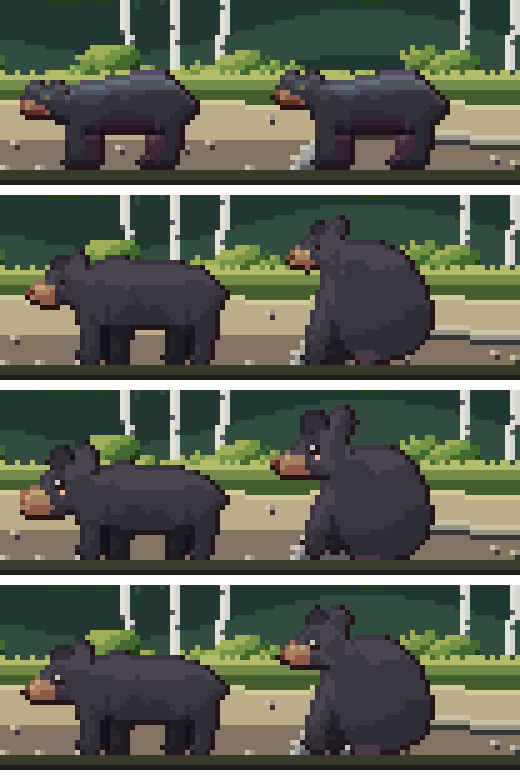
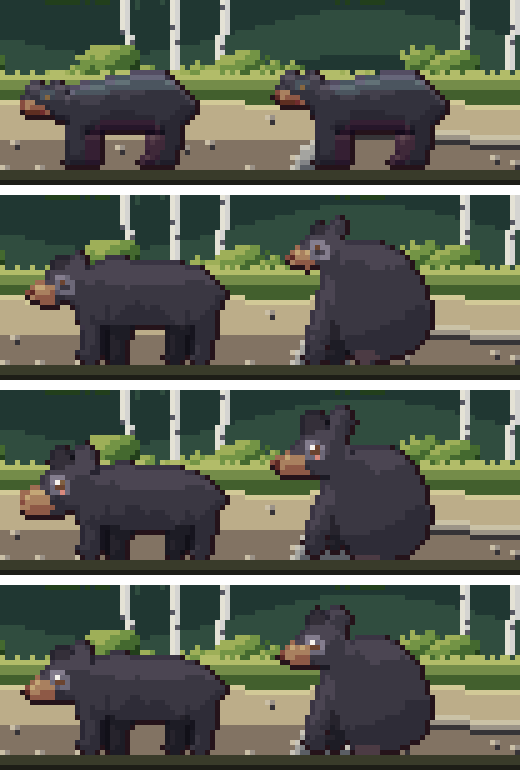
Study 8: direction C, every model corrected, and a buck
Olive's and the bear's eyes read against their black coats, the drinking
deer keeps her ears, the fox's ears are black-backed, the hare's ears are
parted; a white-tailed buck with late-summer antlers joins the doe.
Antlers and eye rims are new in tools/characters/anatomy.py.

Claude-Session: https://claude.ai/code/session_01AFuv3xBDCFNHg8cxuFG86Z

diff --git a/docs/studio/review/study8.html b/docs/studio/review/study8.html
@@ -110,11 +110,27 @@ code { font-family: var(--mono); font-size: 0.85em; }
     <p class="lede">You felt Olive, the deer, fox, hare and bear were stiff and blocky (bodies like boxes, legs like sticks) and not cozy enough. All five are redrawn here from scratch, three ways, each standing and in a pose of its own.</p>
   </header>
 
+  <section>
+    <span class="eyebrow">Your pick, corrected</span>
+    <h2>C, with every model checked</h2>
+    <p>You picked C and pointed out that Olive's eyes didn't show and the deer lost her ears when she bent down. Going over every model close up:</p>
+    <ol class="rules">
+      <li><b>Olive:</b> her brown eyes vanished against her black coat. They're a warmer brown now, with a catchlight and a soft grey rim round them, so they read.</li>
+      <li><b>The bear:</b> the same problem with his dark eyes on black fur; now a brown eye with the same soft rim.</li>
+      <li><b>The deer, drinking:</b> her ears folded back along her neck and merged into it. They now stand up and back from the top of her head, the near one showing its pink inside.</li>
+      <li><b>The fox:</b> his ears were all orange and melted into his head; a red fox's ears are black-backed, and now his are.</li>
+      <li><b>The hare, sitting up:</b> both ears merged into one wide block; they're parted now, the far one angled back.</li>
+      <li><b>New: a buck</b> beside the doe: hardened late-summer antlers (two beams sweeping forward, tines rising from them), a heavier neck, a darker coat.</li>
+    </ol>
+    <img src="study8/final.png" alt="The corrected cast in direction C, standing and in their own poses, with the buck" width="2128" height="224" style="width:100%;height:auto;image-rendering:pixelated;border-radius:4px">
+  </section>
+
   <section class="viewer">
     <span class="eyebrow">One animal at a time</span>
     <div class="pick" role="group" aria-label="Animal">
       <button data-a="olive" aria-pressed="true">Olive</button>
-      <button data-a="deer" aria-pressed="false">Deer</button>
+      <button data-a="deer" aria-pressed="false">Doe</button>
+      <button data-a="buck" aria-pressed="false">Buck</button>
       <button data-a="fox" aria-pressed="false">Fox</button>
       <button data-a="hare" aria-pressed="false">Hare</button>
       <button data-a="bear" aria-pressed="false">Bear</button>
@@ -151,8 +167,8 @@ code { font-family: var(--mono); font-size: 0.85em; }
 
   <section>
     <span class="eyebrow">Your call</span>
-    <h2>Pick one, or mix</h2>
-    <p>Tell me A, B or C, or a mix (for example "C, but Olive as B"), and anything about any animal. Then I'll build every animation (walking, idling, and Olive's run, leap, swim and shake) in that design and put them in the game.</p>
+    <h2>Next</h2>
+    <p>Tell me if anything still looks off. Then I'll build every animation (walking and idling for each, the doe and the buck both visiting, and Olive's run, leap, swim and shake) in this design and put them in the game.</p>
   </section>
 </main>
 <script>

diff --git a/tools/studio/study_creatures.py b/tools/studio/study_creatures.py
@@ -19,6 +19,7 @@ study 6, lit as one mass as in study 7), and shown standing on the beach.
 
     python3 tools/studio/study_creatures.py   -> docs/studio/studies/08-creatures/
 """
+import copy
 import sys
 from pathlib import Path
 
@@ -63,11 +64,11 @@ DEER = {
             "base": "stand", "pivot": (7, 30),
             "neck": [(13.5, 21), (12, 23), (9, 28), (6, 32), (9, 34), (12, 29), (16, 23)],
             "head": [(5, 30), (8.5, 30.5), (9.5, 33), (8.5, 35.5), (6.5, 37.5), (5, 38.4), (3.8, 37.6), (3.6, 35), (4, 32)],
-            "ears_far": [("S", [(6.5, 30), (8.5, 27.5), (9.5, 28.6), (8, 30.8)])],
-            "ears": [("O", [(8, 30.5), (11.5, 28.5), (12, 30), (9, 32)])],
+            "ears_far": [("S", [(6.4, 30.4), (6.6, 25.6), (8.2, 25.4), (8.2, 30.2)])],
+            "ears": [("O", [(8.2, 30.6), (9.6, 25.8), (11.4, 25.6), (10.4, 31.2)])],
+            "head_marks": [("W", [(4, 35.4), (6.6, 35.4), (6.4, 36.6), (4, 36.6)]), ("P", [(9.8, 26.8), (10.6, 26.8), (10, 29.6), (9.4, 29.6)])],
             "eye": (6.6, 32.4), "nose": (4.4, 38),
             "marks": [("W", [(19, 26), (25, 25.6), (32, 25.6), (32, 28), (19, 28)])],
-            "head_marks": [("W", [(4, 35.4), (6.6, 35.4), (6.4, 36.6), (4, 36.6)])],
             "legs": [
                 ("far", [(20, 24), (20.5, 30), (20, 34.5), (20.5, 40)], [1.6, 1.1, 1.0, 1.0]),
                 ("far", [(31, 23), (32, 28.5), (30, 33), (30, 40)], [2.4, 1.4, 1.0, 1.0]),
@@ -76,6 +77,30 @@ DEER = {
             ],
         }},
 }
+
+# The buck: a white-tailed buck in late summer, his antlers hardened (two
+# main beams curving forward, tines rising from them), a heavier neck, a
+# slightly darker coat. Drawn from the doe, with a taller frame for the
+# antlers.
+BUCK = copy.deepcopy(DEER)
+BUCK["frame"], BUCK["ground"] = (46, 54), 52
+BUCK["colours"].update({"O": "#9c7454", "S": "#735238", "A": "#e2d4b4", "a": "#9c8a6a"})
+BUCK["poses"]["stand"].update({
+    "neck": [(13.5, 22.5), (11, 17), (9.5, 12.5), (12.8, 10.2), (16.5, 14), (18.5, 19)],
+    # the beam sweeps up and back, then forward over the face; tines rise
+    # from it, spaced so each reads on its own
+    "antlers_far": [("a", [(10.6, 8.4), (12.6, 4.6), (11.4, 1), (7.6, -1), (3.6, -0.6)], [1.2, 1, 1, 1, 1]),
+                    ("a", [(10.2, -0.2), (10.4, -4.2)], [1, 1]), ("a", [(6.4, -1), (6, -4.6)], [1, 1])],
+    "antlers": [("A", [(12.8, 8.4), (16, 4.6), (15.4, 0.6), (12, -1.6), (7.6, -2), (4.6, -0.8)], [1.3, 1.1, 1, 1, 1, 1]),
+                ("A", [(15.6, 2.4), (18.6, -1.2)], [1, 1]), ("A", [(13.4, -1), (14, -5.6)], [1, 1]),
+                ("A", [(9.6, -1.9), (9.6, -6.2)], [1, 1])],
+})
+BUCK["poses"]["drink"].update({
+    "neck": [(13.5, 21), (11.5, 23.5), (8.5, 28.5), (5.5, 32.5), (9.5, 34.5), (12.5, 29.5), (17, 23)],
+    "antlers_far": [("a", [(6.6, 30), (8.4, 26.6), (11.8, 24.6), (15.4, 25.4)], [1.2, 1, 1, 1]), ("a", [(10.4, 25.2), (10, 21.4)], [1, 1])],
+    "antlers": [("A", [(8.8, 30.6), (11.6, 28), (15.4, 26.8), (18.6, 28), (20, 31)], [1.3, 1.1, 1, 1, 1]),
+                ("A", [(12.4, 27.6), (13.4, 23.6)], [1, 1]), ("A", [(16.4, 27), (18.2, 23.4)], [1, 1])],
+})
 
 FOX = {
     "frame": (42, 27), "ground": 25, "near": "K", "far": "S",
@@ -90,7 +115,8 @@ FOX = {
         "eye": (8.8, 8.8), "nose": (2.4, 10.6),
         "marks": [("W", [(9, 11.5), (12, 11.5), (13, 15), (14, 18), (11, 18), (10, 14)]),
                   ("W", [(16, 19), (27, 19), (27, 21), (16, 21)])],
-        "head_marks": [("W", [(3, 11), (9, 11.2), (11, 11.8), (3, 12.2)]), ("P", [(11.8, 4), (12.6, 3.8), (12.6, 6.4), (11.8, 6.4)])],
+        "head_marks": [("W", [(3, 11), (9, 11.2), (11, 11.8), (3, 12.2)]), ("K", [(11.2, 2), (14, 2.4), (13.6, 4.2), (11.4, 4.2)]),
+                       ("P", [(11.9, 4.4), (12.7, 4.2), (12.6, 6.6), (11.9, 6.6)])],
         "behind": [("O", [(31, 14.8), (35, 14), (38.5, 15.6), (39.5, 18.5), (37.5, 20), (33.5, 19.2), (31.5, 17.5)]),
                    ("W", [(37.4, 16), (39.6, 17), (39.4, 19.4), (37.6, 19.4)])],
         "legs": [
@@ -108,7 +134,7 @@ FOX = {
             "ears": [("O", [(7.2, 18.6), (7.6, 14.6), (9.4, 15.6), (9, 18.8)])],
             "eye": (5.4, 20.4), "nose": (1.8, 24),
             "marks": [("W", [(16, 19), (27, 19), (27, 21), (16, 21)]), ("W", [(9, 18), (12, 17.5), (13.5, 18.5), (10, 20)])],
-            "head_marks": [("W", [(2.4, 23.6), (7, 22.6), (8, 23.2), (3, 24.8)])],
+            "head_marks": [("W", [(2.4, 23.6), (7, 22.6), (8, 23.2), (3, 24.8)]), ("K", [(7.2, 14.2), (9.8, 15), (9.4, 16.6), (7.4, 16.4)])],
             "behind": [("O", [(31, 14.8), (34, 12), (37, 9.5), (39.5, 10), (39, 13), (36, 15.5), (32.5, 17.5)]),
                        ("W", [(37.6, 9.4), (39.8, 10), (39.6, 12.4), (37.8, 12)])],
         }},
@@ -139,11 +165,11 @@ HARE = {
             "torso": [(10, 13), (14, 12), (17.5, 14), (19, 18.5), (19, 23.5), (17, 27.5), (13, 28.6), (9.5, 27.5), (8, 23), (8, 17.5)],
             "neck": [(8, 12), (11, 11.5), (12, 15), (9, 16)],
             "head": [(6, 7.5), (10, 7), (12, 9), (11.6, 12.4), (8.6, 13.6), (5, 13.2), (3.6, 11.8), (4, 9)],
-            "ears_far": [("S", [(7.6, 7.8), (7.4, 0.8), (9.2, 0.6), (9.4, 7.6)])],
-            "ears": [("O", [(9.5, 7.6), (10.4, 0.6), (12.4, 0.2), (11.8, 5.6), (10.8, 8)])],
+            "ears_far": [("S", [(7.4, 7.8), (5.4, 1.2), (7, 0.4), (9, 7.4)])],
+            "ears": [("O", [(9.5, 7.6), (11.2, 0.6), (13.2, 0.6), (12, 5.6), (10.8, 8)])],
             "eye": (6.6, 10), "nose": (3.8, 11.4),
             "marks": [("W", [(9, 20), (13, 19), (14, 28.6), (9, 28.6)])],
-            "head_marks": [("P", [(10.6, 1.6), (11.6, 1.4), (11, 5), (10.4, 5)])],
+            "head_marks": [("P", [(11.4, 1.8), (12.4, 1.8), (11.6, 5), (11, 5)])],
             "behind": [("W", [(18.5, 24), (20.8, 24.4), (20.6, 27.4), (18.6, 27.4)])],
             "legs": [
                 ("far", [(11.5, 18.5), (10.6, 21), (10.6, 22.4)], [1.4, 1.1, 1.0]),
@@ -154,8 +180,8 @@ HARE = {
 }
 
 BEAR = {
-    "frame": (46, 31), "ground": 29, "near": "O", "far": "S",
-    "colours": {"O": "#3a3742", "S": "#26232c", "M": "#a9805f", "P": "#5a4a50"},
+    "frame": (46, 31), "ground": 29, "near": "O", "far": "S", "eye_ring": "k",
+    "colours": {"O": "#3a3742", "S": "#26232c", "M": "#a9805f", "P": "#5a4a50", "E": "#6b4430", "k": "#6c6878"},
     "poses": {"stand": {
         "pivot": (9, 14),
         "torso": [(12, 12.5), (17, 10), (24, 10.5), (31, 11), (36, 12), (39, 15), (39, 19), (36, 21.5), (28, 22), (19, 22), (13, 21), (10, 18.5), (10, 15)],
@@ -193,8 +219,9 @@ BEAR = {
 }
 
 OLIVE = {
-    "frame": (42, 32), "ground": 30, "near": "W", "far": "w",
-    "colours": {"O": "#33323d", "W": "#eae2dc", "w": "#b3a697", "H": "#faffff", "R": "#c25f62", "P": "#985252", "E": "#a36443"},
+    "frame": (42, 32), "ground": 30, "near": "W", "far": "w", "eye_ring": "k",
+    "colours": {"O": "#33323d", "W": "#eae2dc", "w": "#b3a697", "H": "#faffff", "R": "#c25f62", "P": "#985252", "E": "#c07a4a",
+                "k": "#6c6878", "C": "#fff4e0"},
     "poses": {"stand": {
         "pivot": (11, 12),
         "torso": [(13, 16), (19, 15), (26, 15.2), (31, 16), (33.5, 18.5), (33, 22), (30, 23.5), (24, 23.6), (18, 23.8), (13.5, 22.5), (11, 19.5), (11.5, 17)],
@@ -239,7 +266,7 @@ OLIVE = {
         }},
 }
 
-ANIMALS = {"olive": OLIVE, "deer": DEER, "fox": FOX, "hare": HARE, "bear": BEAR}
+ANIMALS = {"olive": OLIVE, "deer": DEER, "buck": BUCK, "fox": FOX, "hare": HARE, "bear": BEAR}
 
 
 def render(spec, style, pose="stand"):
@@ -250,7 +277,7 @@ def render(spec, style, pose="stand"):
     return lit(treat(img, fw), fw)
 
 
-POSES = {"olive": ["stand", "sit"], "deer": ["stand", "drink"], "fox": ["stand", "sniff"], "hare": ["stand", "alert"], "bear": ["stand", "sit"]}
+POSES = {"olive": ["stand", "sit"], "deer": ["stand", "drink"], "buck": ["stand", "drink"], "fox": ["stand", "sniff"], "hare": ["stand", "alert"], "bear": ["stand", "sit"]}
 
 
 def sheet(style, scale=4, names=None):
@@ -282,10 +309,11 @@ NOW = {"olive": (0, 2), "deer": (8, 11), "fox": (8, 10), "hare": (10, 14), "bear
 def now_frames(name):
     import json
     m = json.loads((ROOT / "assets" / "art" / "manifest.json").read_text())
+    name = {"buck": "deer"}.get(name, name)
     sh = m["sheets"][name]
     img = Image.open(ROOT / sh["url"]).convert("RGBA")
     fw, fh = sh["frameWidth"], sh["frameHeight"]
-    return [img.crop((i * fw, 0, (i + 1) * fw, fh)) for i in NOW[name]]
+    return [img.crop((i * fw, 0, (i + 1) * fw, fh)) for i in NOW[name]]  # the game has a doe only
 
 
 def card(name, scale=5):
@@ -312,3 +340,6 @@ if __name__ == "__main__":
         sheet(style).save(OUT / f"{style}.png")
     for name in ANIMALS:
         card(name).save(OUT / f"card-{name}.png")
+    # the chosen direction (C), corrected, as one lineup
+    final = sheet("between", scale=4)
+    final.save(OUT / "final.png")

diff --git a/tools/characters/anatomy.py b/tools/characters/anatomy.py
@@ -163,11 +163,15 @@ def draw(spec, style="natural", pose="stand"):
         c.blob(sh(t[1]), t[0])
     c.blob(torso, "O")
     c.blob(sh(p["neck"]), "O")
+    for ch, joints, widths in p.get("antlers_far", []):
+        c.limb(head(joints), widths, ch)
     for ch, pts in p.get("ears_far", []):
         c.blob(head(pts, st["ears"]), ch)
     c.blob(head(p["head"]), "O")
     for ch, pts in p.get("ears", []):
         c.blob(head(pts, st["ears"]), ch)
+    for ch, joints, widths in p.get("antlers", []):
+        c.limb(head(joints), widths, ch)
     for ch, pts in p.get("marks", []):
         c.blob(sh(pts), ch, clip=True)
     for ch, pts in p.get("head_marks", []):
@@ -205,6 +209,16 @@ def draw(spec, style="natural", pose="stand"):
                 put(ex + dx, ey + dy, "E")
         put(ex, ey, "C")
         put(ex + 1, ey + 2, "B")  # a little blush under the eye
+    ring = spec.get("eye_ring")
+    if ring:
+        # on a dark coat the eye needs a lighter rim to be seen
+        eye = {(ex, ey), (ex, ey + 1), (ex + 1, ey + 1)}
+        for x0, y0 in eye:
+            for dx in (-1, 0, 1):
+                for dy in (-1, 0, 1):
+                    x, y = x0 + dx, y0 + dy
+                    if (x, y) not in eye and 0 <= x < W and 0 <= y < H and g[y][x] in spec.get("coat", "O"):
+                        g[y][x] = ring
     put(nx, ny, "N")
     if st["eye"] == "big":
         put(nx, ny - 1, "N")

diff --git a/docs/studio/README.md b/docs/studio/README.md
@@ -40,7 +40,7 @@ Tools: `tools/studio/audit.py` re-measures every image in the game.
 1. Audit what we have. *(done: [audit.md](audit.md))*
 2. Research. *(done: [research/](research/))*
 3. Build the materials library. *(first version: [materials.md](materials.md))*
-4. Practice studies, one small subject at a time. *(Study 1, the sky and the hills: done, in the game. Study 2, the far bank: done, in the game. Study 3, the waterfall: done, in the game. Study 4, the bluff and its stream: done, in the game. Study 5, cattails at the shoreline: done, in the game. Study 6, the whole cast: done, in the game. Study 7, the land animals: done, in the game. Study 8, the land animals redesigned: waiting on you)*
+4. Practice studies, one small subject at a time. *(Study 1, the sky and the hills: done, in the game. Study 2, the far bank: done, in the game. Study 3, the waterfall: done, in the game. Study 4, the bluff and its stream: done, in the game. Study 5, cattails at the shoreline: done, in the game. Study 6, the whole cast: done, in the game. Study 7, the land animals: done, in the game. Study 8, the land animals redesigned: C, corrected; animations next)*
 5. Replace the pack art, piece by piece.
 
 New game modes are on hold; for now everything goes into the lake we have.

diff --git a/docs/studio/studies.md b/docs/studio/studies.md
@@ -368,9 +368,20 @@ legs spaced apart, or they merge into stumps. A sitting bear with its
 legs tucked inside its body is a black egg; legs set forward of the chest
 read.
 
-**Verdict:** waiting on you.
+**Verdict:** C, cozy naturalist, with corrections: Olive's eyes didn't
+show and the deer lost her ears bending down. Checked every model and
+fixed: Olive's and the bear's eyes (warmer, a catchlight and a soft grey
+rim against the black coat), the drinking deer's ears (standing up and
+back, clear of the neck), the fox's ears (black-backed), the hare's ears
+sitting up (parted). Added a buck beside the doe: hardened late-summer
+antlers, a heavier neck, a darker coat.
 
-**Learned:** (after the verdict)
+**Learned:**
+- On a black coat a dark eye disappears: give it a lighter rim.
+- Parts that fold against a body of the same colour vanish; turn them so
+  they stand clear of it, or give them a darker or lighter face.
+- Antler tines need room: spaced three pixels apart with their outline,
+  closer they merge into a clump.
 
 <!--
 ## Study N: <subject> (<date>)
